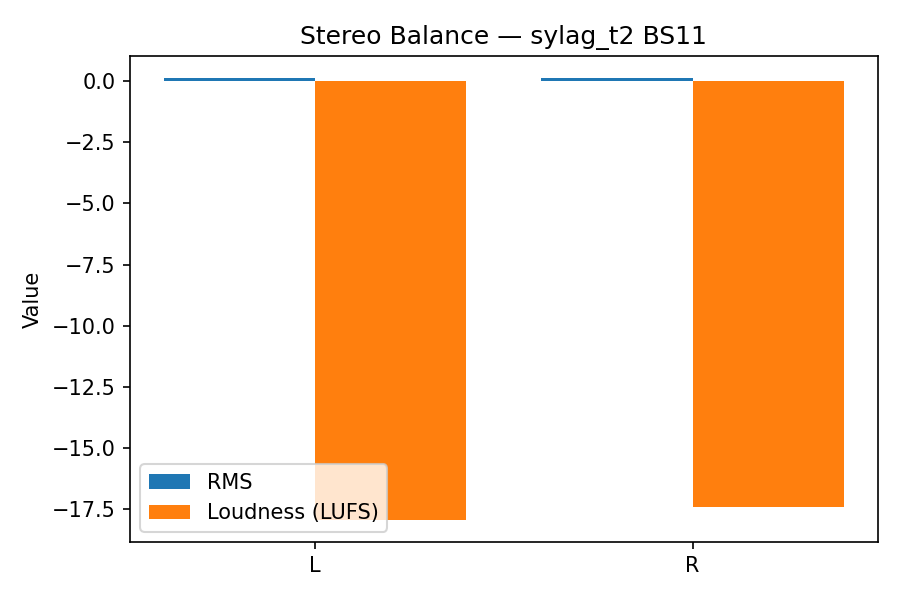
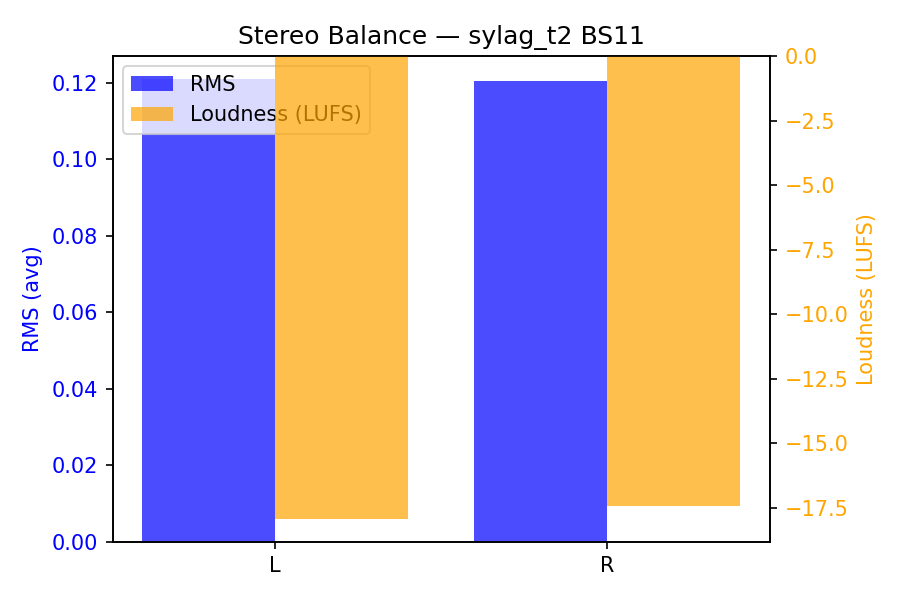
fixed stereo balance graphs colors

diff --git a/utils/analyse_song.py b/utils/analyse_song.py
@@ -398,26 +398,39 @@ def plot_radar_chart(features, outdir, song_label):
 
 def plot_lr_balance_bars(features, outdir, song_label):
     for f in features:
-        fig, ax = plt.subplots(figsize=(6, 4))
+        fig, ax1 = plt.subplots(figsize=(6, 4))
         x = np.arange(2)  # L, R
 
-        # RMS (blu)
+        # RMS bars (blu) su ax1
         rms_vals = [f["rms_left"], f["rms_right"]]
-        ax.bar(x - 0.2, rms_vals, width=0.4, color="tab:blue", label="RMS")
+        ax1.bar(x - 0.2, rms_vals, width=0.4, color="blue", alpha=0.7, label="RMS")
+        ax1.set_ylabel("RMS (avg)", color="blue")
+        ax1.tick_params(axis="y", labelcolor="blue")
 
-        # Loudness (arancione)
+        # Loudness (LUFS) su ax2 (arancione)
+        ax2 = ax1.twinx()
         lufs_vals = [f["loudness_left"], f["loudness_right"]]
-        ax.bar(
-            x + 0.2, lufs_vals, width=0.4, color="tab:orange", label="Loudness (LUFS)"
+        ax2.bar(
+            x + 0.2,
+            lufs_vals,
+            width=0.4,
+            color="orange",
+            alpha=0.7,
+            label="Loudness (LUFS)",
         )
+        ax2.set_ylabel("Loudness (LUFS)", color="orange")
+        ax2.tick_params(axis="y", labelcolor="orange")
 
-        ax.set_xticks(x)
-        ax.set_xticklabels(["L", "R"])
-        ax.set_ylabel("Value")
-        ax.legend()
+        ax1.set_xticks(x)
+        ax1.set_xticklabels(["L", "R"])
         plt.title(f"Stereo Balance — {song_label} {f['label']}")
-        fig.tight_layout()
 
+        # Legenda combinata
+        h1, l1 = ax1.get_legend_handles_labels()
+        h2, l2 = ax2.get_legend_handles_labels()
+        ax1.legend(h1 + h2, l1 + l2, loc="upper left")
+
+        fig.tight_layout()
         outname = os.path.join(outdir, f"{song_label}-{f['label']}_balance.png")
         plt.savefig(outname, dpi=150)
         plt.close(fig)
